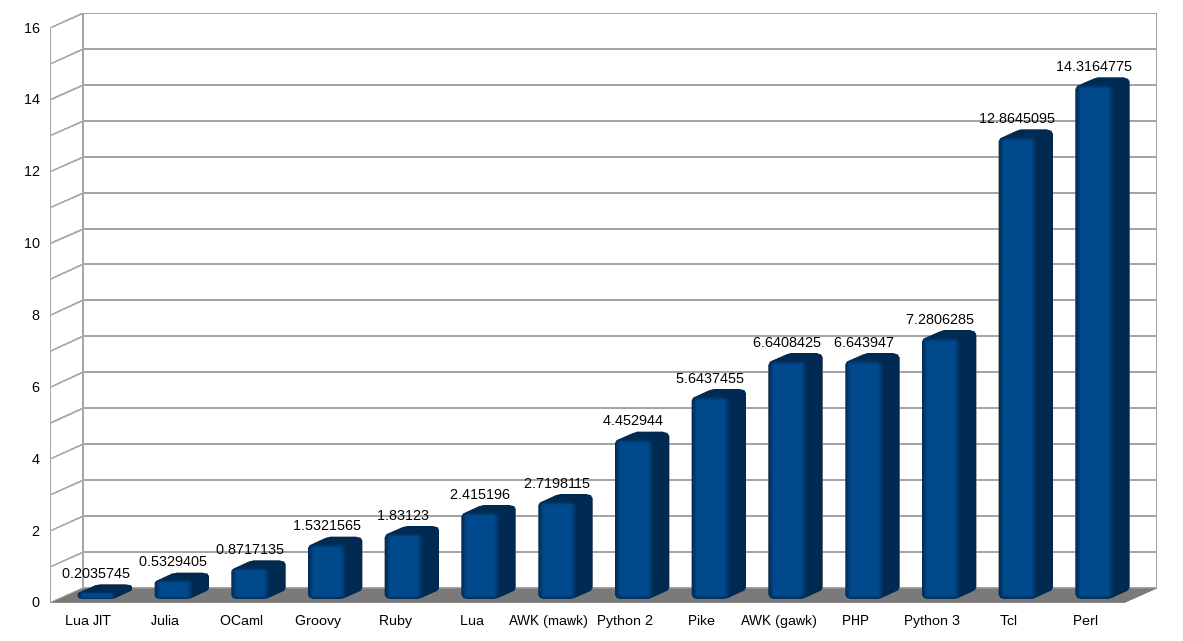
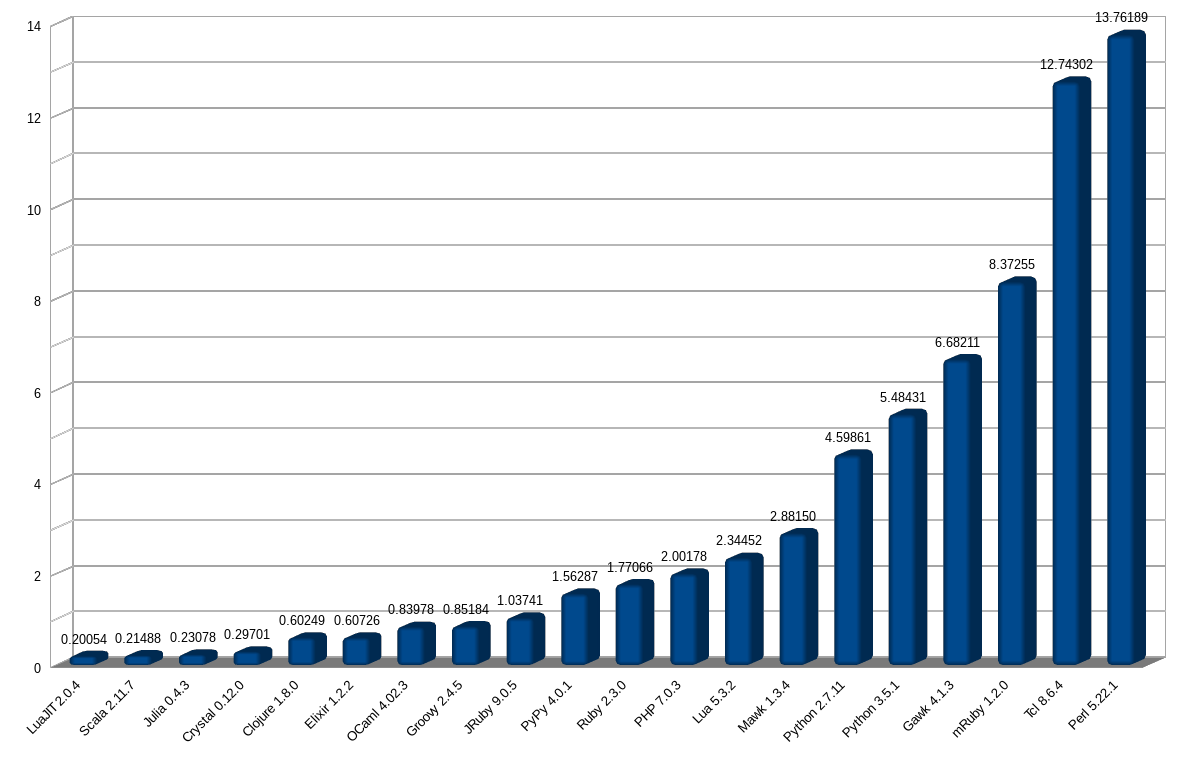
- Updated reports. - Added mRuby.

diff --git a/README.md b/README.md
@@ -2,22 +2,28 @@
 
 A simple benchmark system with support for compiled and interpreted languages, generating CSV reports.
 
-###The Ackermann function (`ack(3,9)`)
+###Ackermann function (`ack(3,9)`)
 ![Ackermann recursive](https://raw.githubusercontent.com/trizen/language-benchmarks/master/Stats/Interpreted/ack-function-3-9.png)
 
 ###Tak function (`tak(30,22,12)`)
 ![Tak function](https://raw.githubusercontent.com/trizen/language-benchmarks/master/Stats/Interpreted/tak-30-22-12.png)
 
-###The 35th fibonacci number (recursive)
+###35th Fibonacci number (recursive)
 ![Fibonacci recursive](https://raw.githubusercontent.com/trizen/language-benchmarks/master/Stats/Interpreted/fibonacci-35.png)
 
-###Mutual recursion (`F(120); M(120)`)
-![Mutual recursion](https://raw.githubusercontent.com/trizen/language-benchmarks/master/Stats/Interpreted/mutual-recursion-120.png)
+###Mutual recursion (`F(130); M(130)`)
+![Mutual recursion](https://raw.githubusercontent.com/trizen/language-benchmarks/master/Stats/Interpreted/mutual-recursion-130.png)
 
-###The Levenshtein Distance function (recursive)
+###Levenshtein distance (recursive)
 ![Levenshtein Distance](https://raw.githubusercontent.com/trizen/language-benchmarks/master/Stats/Interpreted/lev-distance.png)
 
 ###The LCS problem (recursive)
 ![LCS](https://raw.githubusercontent.com/trizen/language-benchmarks/master/Stats/Interpreted/lcs-test.png)
 
-_The y-axis is measuring the average execution time of a process, in seconds. Lower values mean higher performance._
+###Coin sums (recursive)
+![Coin sums](https://raw.githubusercontent.com/trizen/language-benchmarks/master/Stats/Interpreted/coin-sums-0-250.png)
+
+###Man or boy test
+![Man or boy](https://raw.githubusercontent.com/trizen/language-benchmarks/master/Stats/Interpreted/man-or-boy-12.png)
+
+_The y-axis is measuring the average execution time of a process, in seconds. Lower values are better._
